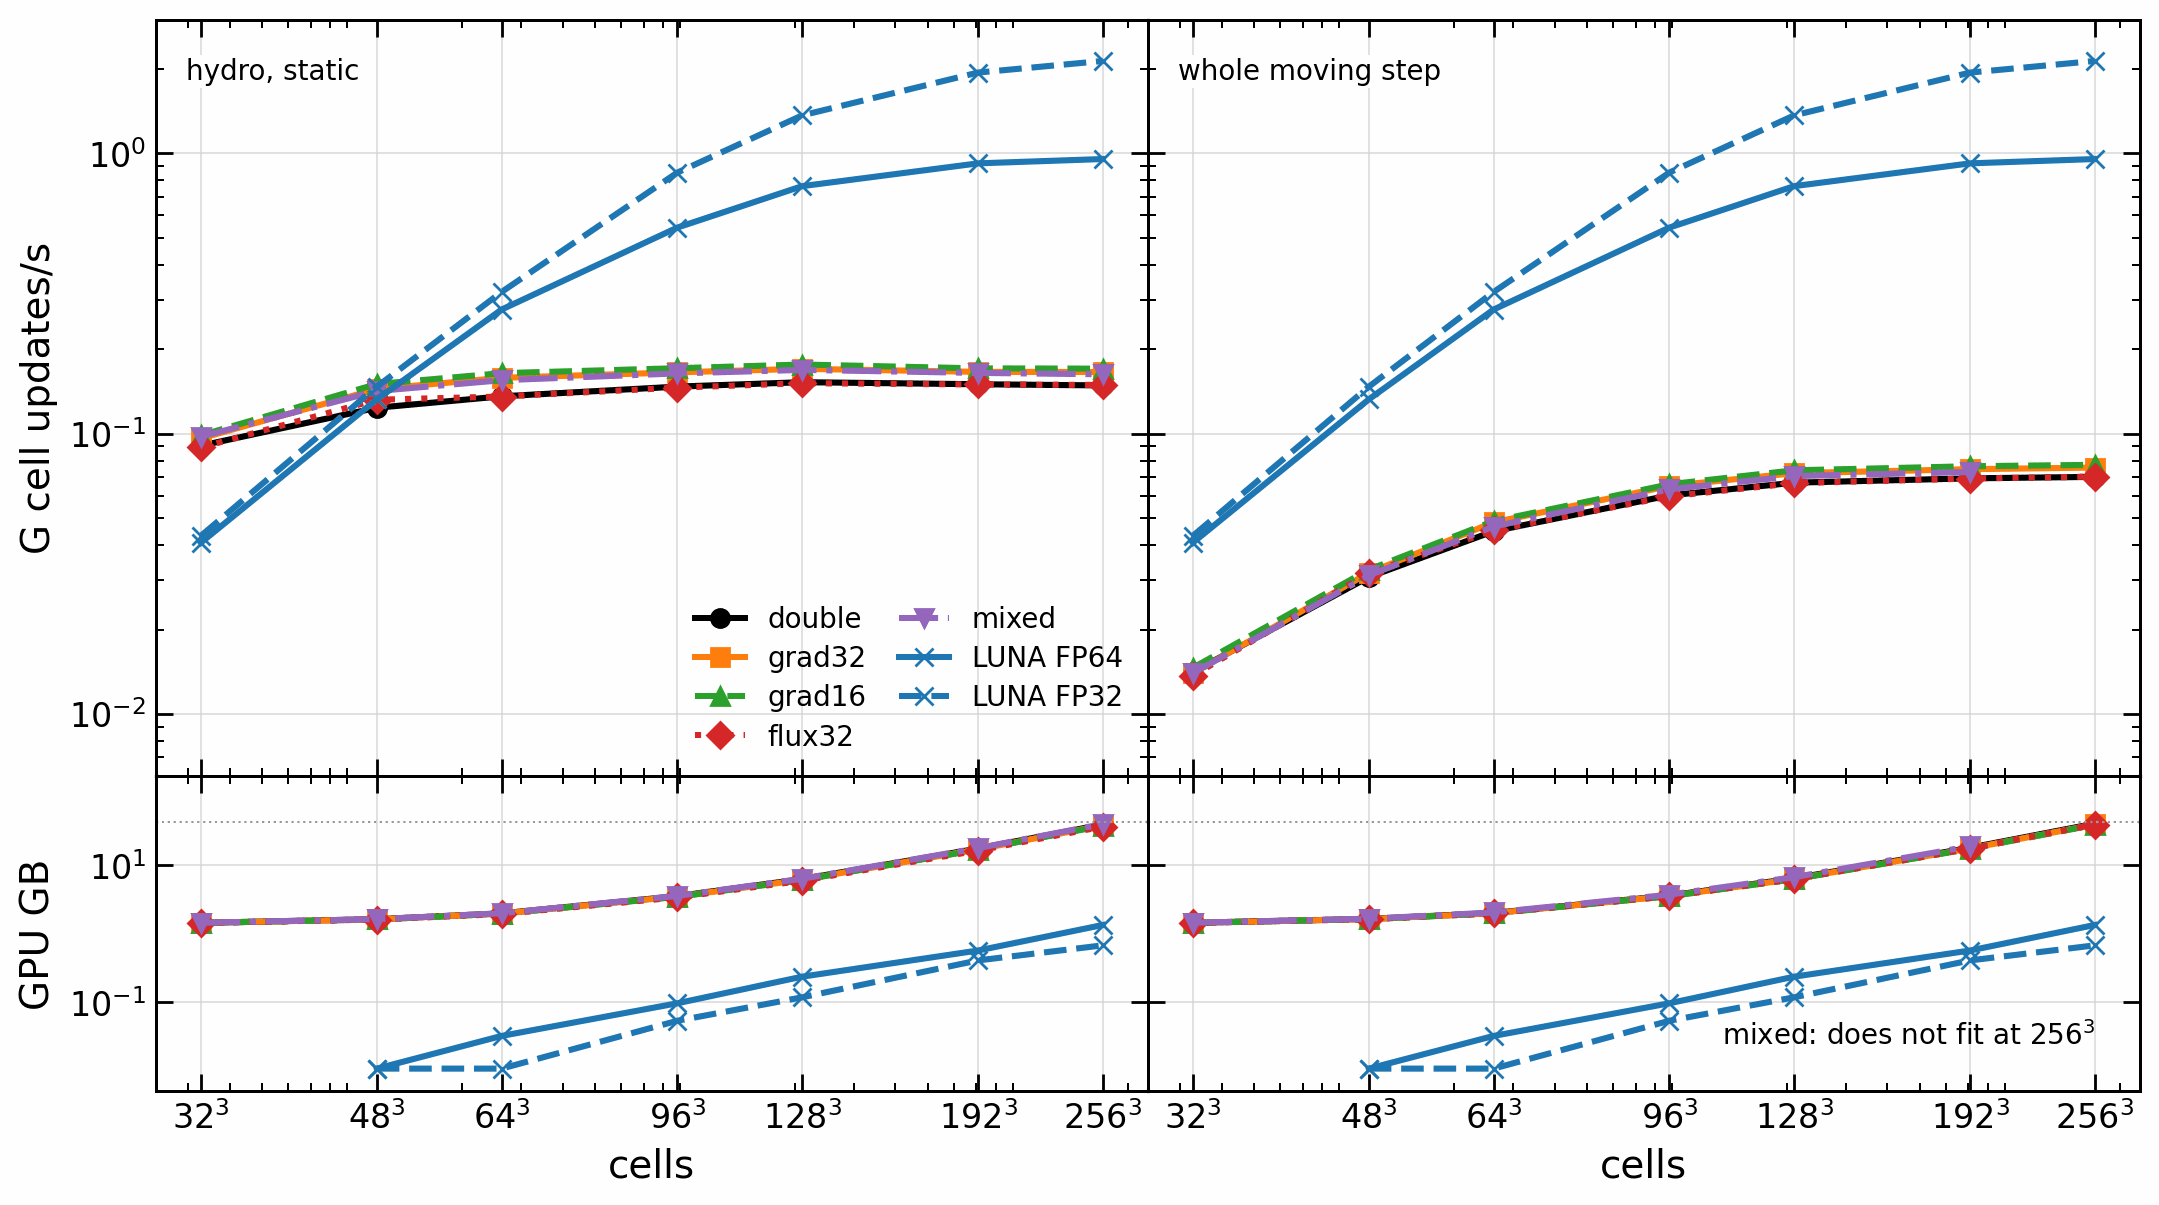
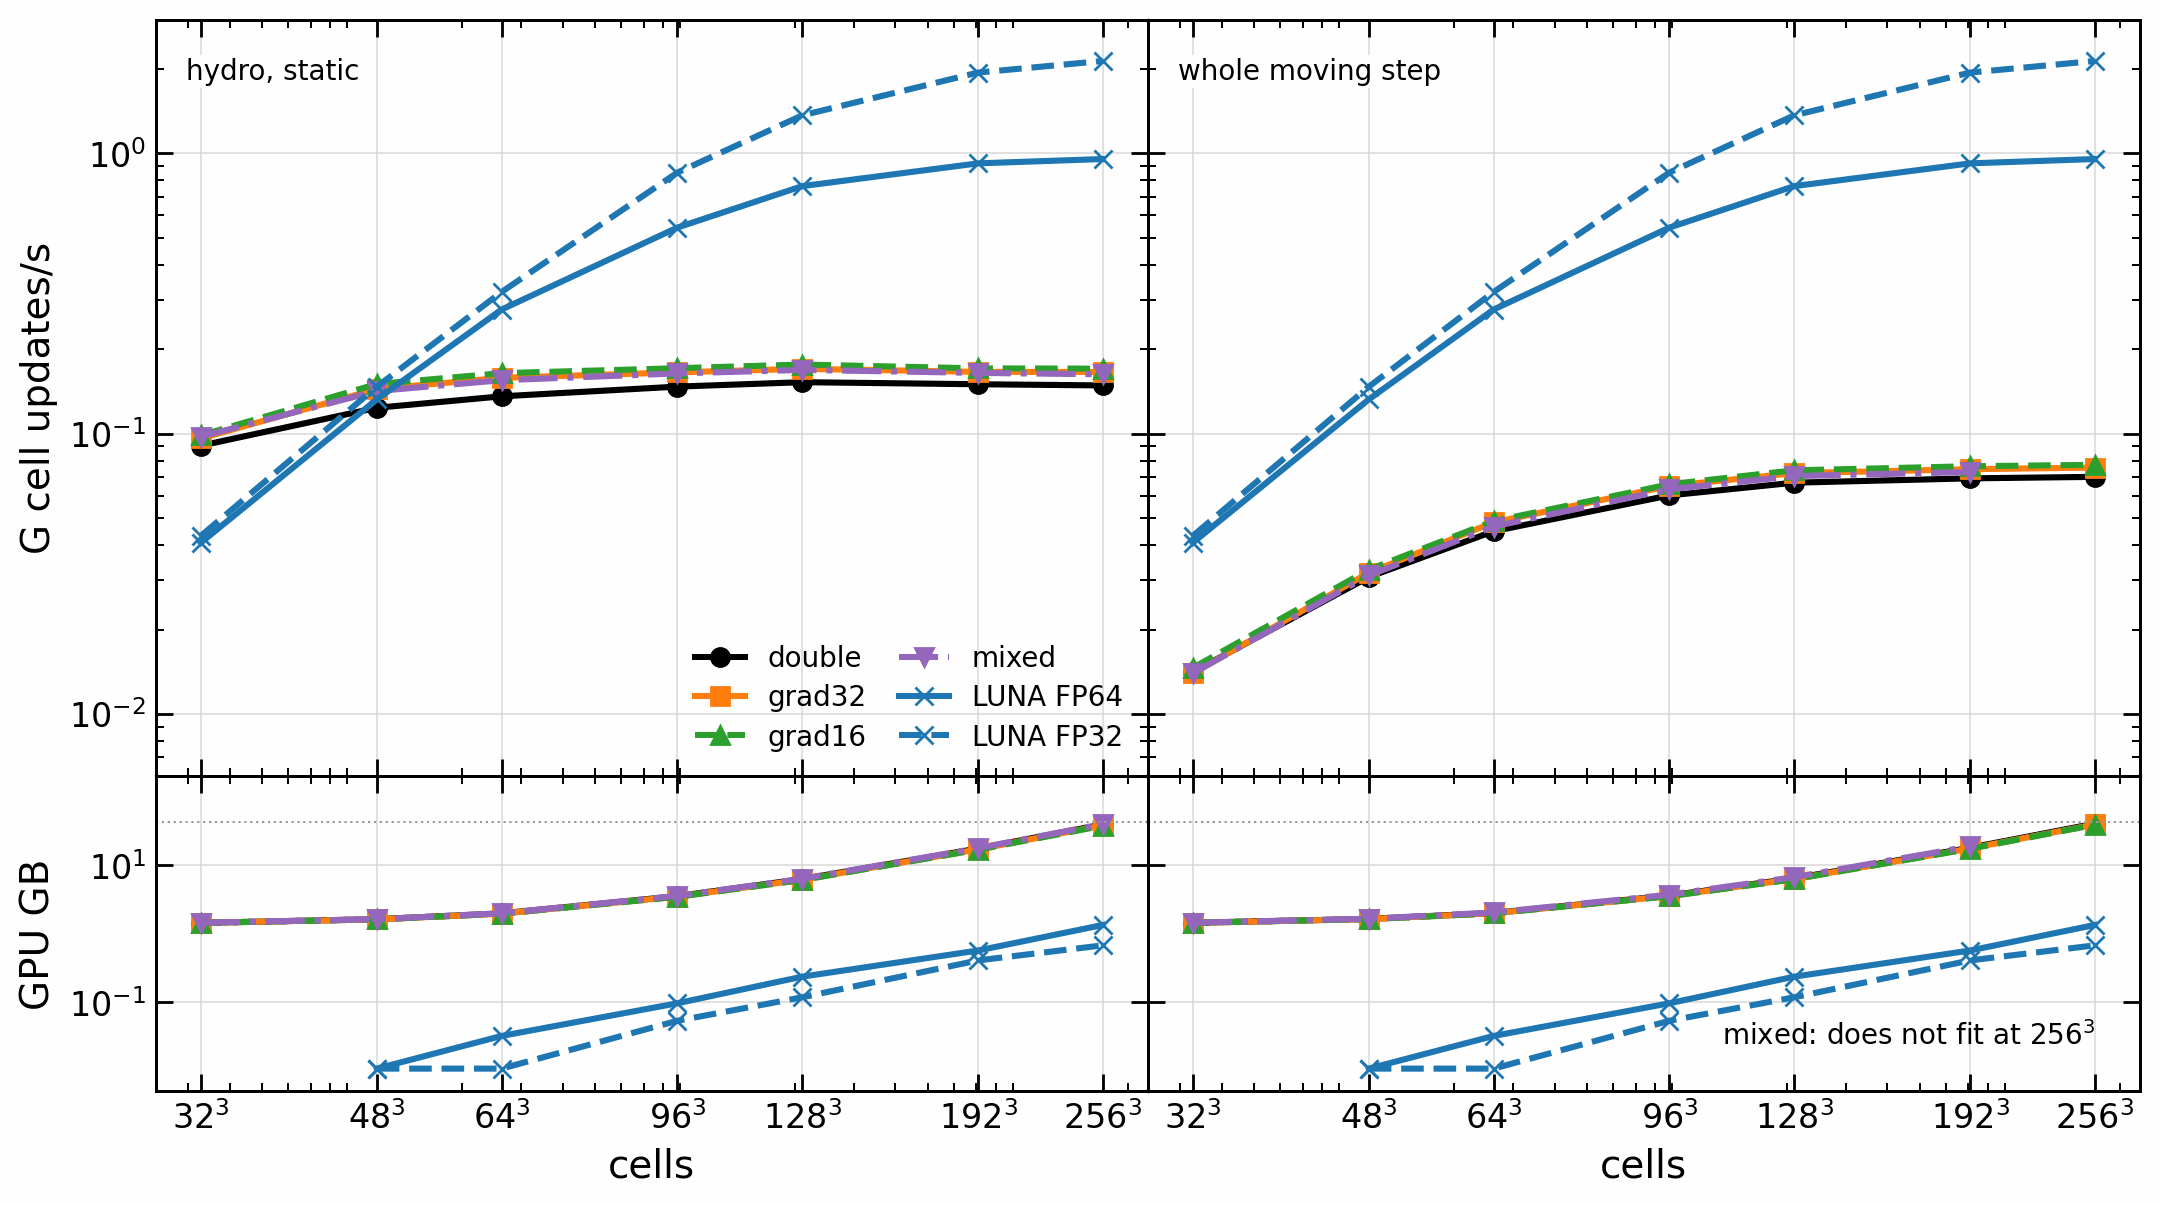
Precision: no flux32 preset (it measured no gain); throughput_precision redrawn without it

diff --git a/src/bench/hydro_sedov.cpp b/src/bench/hydro_sedov.cpp
@@ -418,7 +418,6 @@ void run_precision(const Options& o, const Points& points) {
     if (p == "default") return run<hydro::DefaultPrecision<3>, R>(o, points);
     if (p == "double") return run<Precision<>, R>(o, points);
     if constexpr (std::is_same_v<R, hydro::HLLC>) {
-        if (p == "flux32") return run<Precision<double, double, float>, R>(o, points);
         if (p == "grad32") return run<hydro::Grad32, R>(o, points);
         if (p == "grad16") return run<Precision<double, Half>, R>(o, points);
         if (p == "mixed") return run<Precision<float, float, float>, R>(o, points);
@@ -437,7 +436,7 @@ int main(int argc, char** argv) {
         if (std::string(argv[i]).rfind("--", 0) != 0) args.push_back(argv[i]);
     if (args.size() < 2) {
         std::cerr << "usage: hydro_sedov <side> <jittered|uniform> [--order=0|1] [--update=cell|face] [--limiter=face|cell|none]"
-                     " [--riemann=hllc|hll] [--precision=default|double|flux32|grad32|grad16|mixed|low]"
+                     " [--riemann=hllc|hll] [--precision=default|double|grad32|grad16|mixed|low]"
                      " [--moving] [--bulk=km/s] [--no-blast] [--box=fx,fy,fz] [--out=dir]"
                      " [--snapshots=10] [--steps=max] [--input-order] [--memory] [--gradients] [--cold=f] [--watch]\n";
         return 2;

diff --git a/scripts/make_figures.py b/scripts/make_figures.py
@@ -1048,7 +1048,7 @@ def precision_log():
 def fig_throughput_precision():
     ours, failed, luna, memory = precision_log()
     # Job 31953468 predates grad32 as the default: its `default` is double throughout.
-    presets = (("default", "double", "k", "-", "o"), ("grad32", "grad32", "C1", "-", "s"), ("grad16", "grad16", "C2", "--", "^"), ("flux32", "flux32", "C3", ":", "D"), ("mixed", "mixed", "C4", "-.", "v"))
+    presets = (("default", "double", "k", "-", "o"), ("grad32", "grad32", "C1", "-", "s"), ("grad16", "grad16", "C2", "--", "^"), ("mixed", "mixed", "C4", "-.", "v"))
     sides = sorted({k[0] for k in ours})
     cells = [s ** 3 for s in sides]
     fig, axes = plt.subplots(2, 2, figsize=(WIDTH, FIGSIZE[1] * 1.45), sharex=True, sharey="row", gridspec_kw=dict(height_ratios=(3, 1.25), hspace=0, wspace=0))

diff --git a/docs/measurements.md b/docs/measurements.md
@@ -68,7 +68,7 @@ Made by `scripts/make_figures.py` in LUNA's figure style (`scripts/figstyle.py`)
 | `sedov3d_radial.png` | n_x / 2 bins at 1e4 yr; static job 31953728, 5834 steps, the others as for `sedov3d_shock.png` |
 | `sedov3d_mesh.png` | slice z = 25 pc at 1e4 yr, exact plane section of the 3D Voronoi cells |
 | `throughput_scaling.png` | 32³ to 256³, 1095 MHz, 40 steps, LUNA median of the perf lines of three rounds. Job 31928911, mesh pin 0b433f0 |
-| `throughput_precision.png` | 32³ to 256³, 40 steps, 1305 MHz, job 31953468, e90a913. LUNA in the same job (200 steps, median of the perf lines). None of our options is FP32 throughout. At 128³ `grad16` gives +15 % hydro, +10 % whole step; `grad32` +12 % and +8 %; `mixed` +10 % and +6 %; `flux32` nothing. `mixed` two-pass does not fit at 256³ |
+| `throughput_precision.png` | 32³ to 256³, 40 steps, 1305 MHz, job 31953468, e90a913. LUNA in the same job (200 steps, median of the perf lines). None of our options is FP32 throughout. At 128³ `grad16` gives +15 % hydro, +10 % whole step; `grad32` +12 % and +8 %; `mixed` +10 % and +6 %. `mixed` two-pass does not fit at 256³ |
 | `throughput_dimensions.png` | HLLC, FP64. A blast in all three: LUNA's Sedov without units in 1D (gamma 1.4) and 2D (gamma 5/3), the Sedov above in 3D. 1D has no two-pass integrator. Jobs 31953276 and 31953278 at 1305 MHz, 31953467 at 1095 MHz; the 1D and 2D blast is not on main yet, runs at voronoi-cpp d077c41. At the largest size static hydro runs 2.66, 0.67 and 0.15 G cell updates/s against LUNA 2.96, 1.46 and 0.95. Two passes take the whole step to 0.29 in 2D and 0.07 in 3D |
 
 The precision table in the README is from job 31953468 at 256³, whose `default` is today's `--precision=double`. `grad32` against double on the final tree, job 31954615, 128³ and 256³: +12 % static, +8 % the whole step with two passes, +8 to +9 % with one, 64 B/cell less moving with two passes, 65 otherwise. An earlier job, 31928265, also 1305 MHz: +12 % static, +9 % the whole moving step, the same 64 B/cell.

diff --git a/docs/design.md b/docs/design.md
@@ -116,6 +116,7 @@ Each line names the last commit that had it: `git show <commit>:<path>` brings i
 
 - `hydro_sedov --precision=weight64|geo32|riemann32|mixed16`, presets no test, figure or measurement used: c12980c, `src/bench/hydro_sedov.cpp` (`run_precision`).
 - Gradient weights stored by the mesh (the `Weight` slot of `Precision`, presets `weight32` and `lowweights`, their `hydro` cases; voronoi-cpp's `gradient_weights` goes with them): d814706, `src/hydro/precision.hpp`, `finite_volume.hpp`.
+- `hydro_sedov --precision=flux32` (float face fluxes alone; it measured no gain, job 31953468) and its line in `throughput_precision.png`: d814706, `src/bench/hydro_sedov.cpp`, `scripts/make_figures.py`.
 
 ## Benchmark programs (src/bench/)
 
